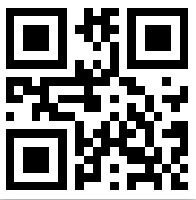
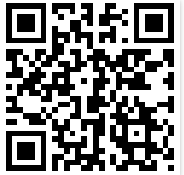
update qr; more readme

diff --git a/README.md b/README.md
@@ -86,6 +86,24 @@ Thanks for trying out this applications.
 - More fonts
 - Fix more Lighthouse issues (might be in Flutter)
 
+## How to outline Repaint
+
+<pre>
+void main() {
+  // --> debugRepaintRainbowEnabled = true;
+  runApp(Scoreboard());
+}
+</pre>
+
+
+## Ideas to prevent rotate
+
+https://code-boxx.com/lock-screen-orientation/
+
+https://stackoverflow.com/questions/3501510/blocking-device-rotation-on-mobile-web-pages
+
+
+
 ## Reference
 
 Icons created with https://appicon.co/  NOTE: original image should be square to avoid white edges on IOS Home screen.
